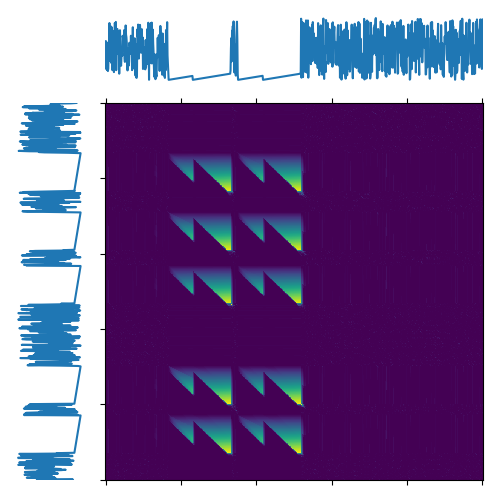
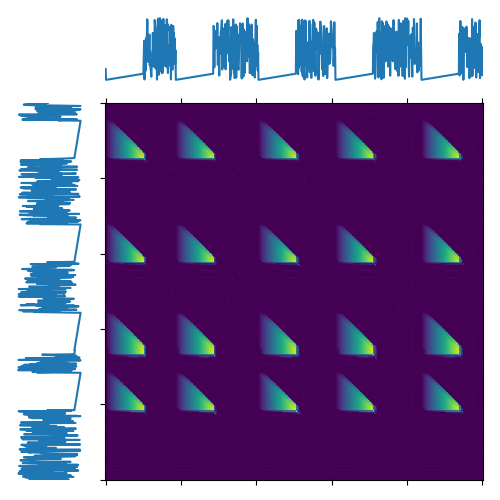
feat: path class

diff --git a/app/app.py b/app/app.py
@@ -2,6 +2,7 @@ import logging
 
 import numpy as np
 import utils
+from locomotif.loconsensus import path as path_class
 from locomotif.loconsensus import path_finder, visualize
 from locomotif.loconsensus import similarity_matrix as sm
 from locomotif.loconsensus import timeseries_generator as tsg
@@ -51,14 +52,17 @@ if __name__ == '__main__':
     fig.savefig('csm.png')
 
     # find the best paths
-    paths = path_finder.find_paths(csm1, STEP_SIZES, L_MIN)
-    axs = visualize.plot_local_warping_paths(axs, [path for path in paths], lw=1)
-    fig.savefig('paths.png')
+    found_paths = path_finder.find_paths(csm1, STEP_SIZES, L_MIN)
+    LOGGER.info(msg=f'Found {len(found_paths)} paths.')
 
-    ## TODO: MOVE TO PATH_FINDER
-    # paths = []
-    # for path in best_paths:
-    # rows, columns = path[:, 0], path[:, 1]
-    # path_similarities = sm1[rows, columns]
-    ## paths.append((path, path_similarities))
-    # paths.append(path)
+    # create a Path() for each path including the similarity information
+    paths = []
+    for found_path in found_paths:
+        rows, columns = found_path[:, 0], found_path[:, 1]
+        path_similarities = sm1[rows, columns]
+        paths.append(path_class.Path(found_path, path_similarities))
+
+    axs = visualize.plot_local_warping_paths(
+        axs, [path_object.path for path_object in paths], lw=1
+    )
+    fig.savefig('paths.png')

diff --git a/src/locomotif-loconsensus/locomotif/loconsensus/path.py b/src/locomotif-loconsensus/locomotif/loconsensus/path.py
@@ -1,0 +1,13 @@
+import numpy as np
+
+
+class Path:
+    def __init__(self, path, path_similarities):
+        self.path = path
+        self.path_similarities = path_similarities
+        self.cumulative_path_similarity = np.concatenate(
+            (np.array([0, 0]), np.cumsum(self.path_similarities))
+        )
+
+    def __getiten__(self, i):
+        return self.path[i, :]

diff --git a/src/locomotif-loconsensus/locomotif/loconsensus/path_finder.py b/src/locomotif-loconsensus/locomotif/loconsensus/path_finder.py
@@ -1,5 +1,8 @@
+import logging
+
 import numpy as np
 
+LOGGER = logging.getLogger(__name__)
 # TODO: what value for V_WIDTH?
 V_WIDTH = 2
 
